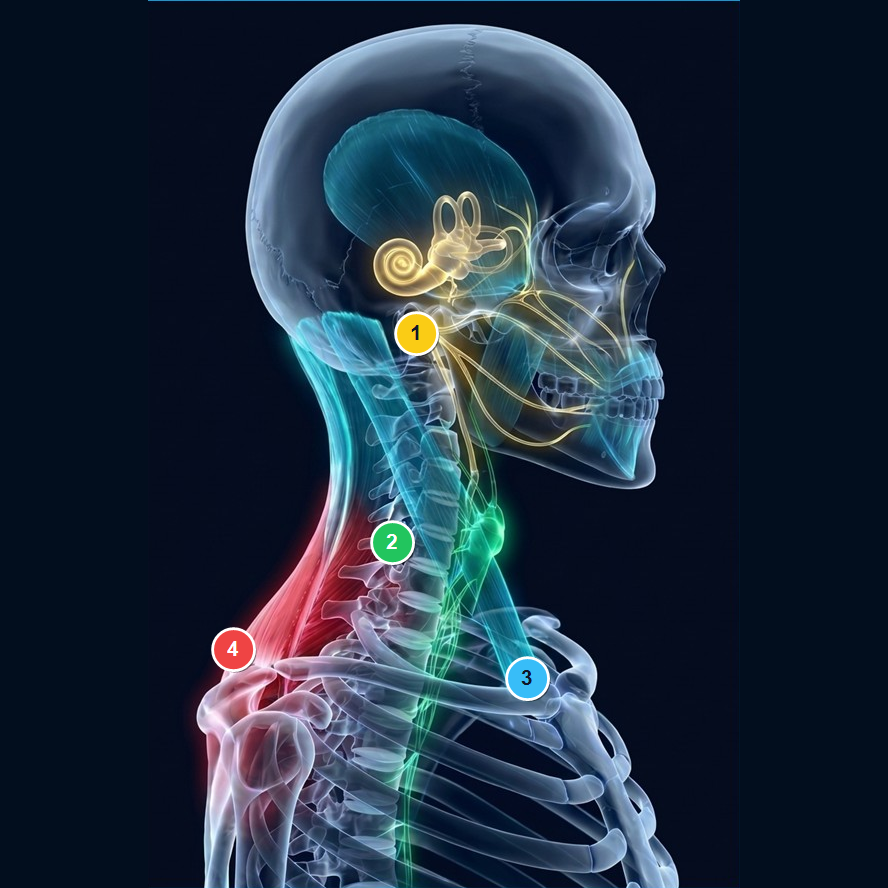
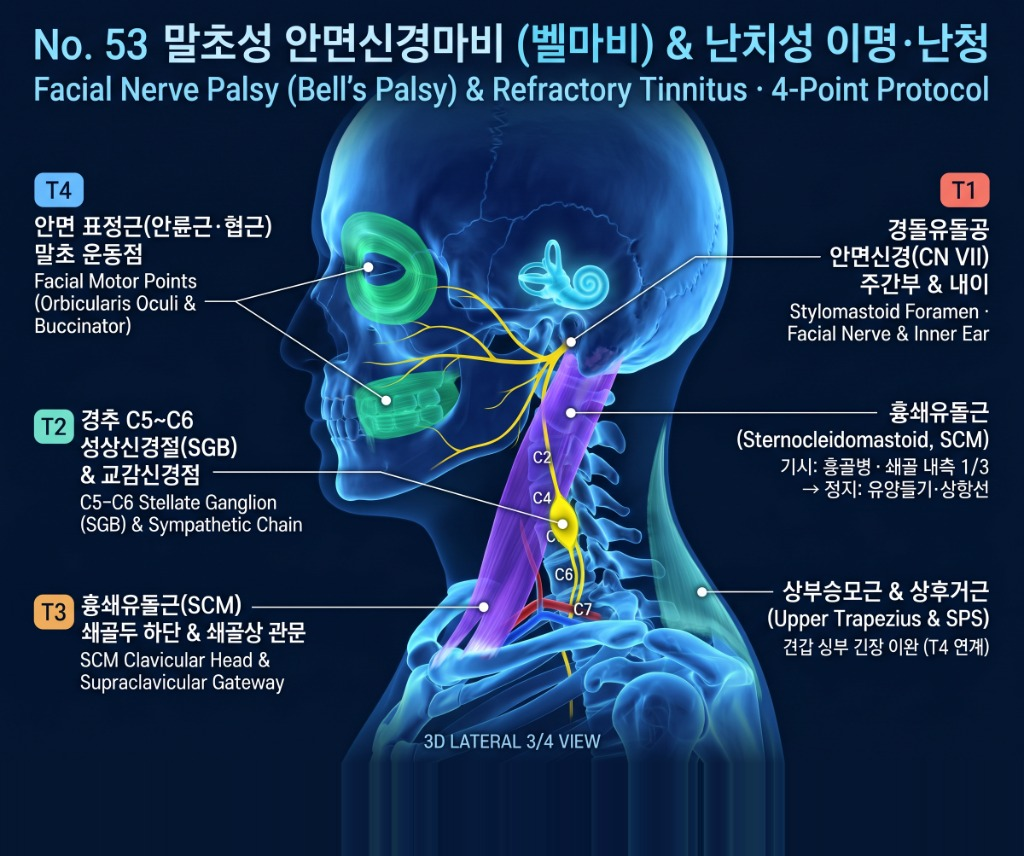
feat(healing-app): upgrade No.53 facial nerve palsy & tinnitus plate and align T1-T4 pins

diff --git a/healing-app/js/pain_data.js b/healing-app/js/pain_data.js
@@ -6590,7 +6590,7 @@ window.PAIN_CONDITIONS = [
     ],
     "title": {
       "ko": "말초성 안면신경마비 후유증 (벨마비) 및 난치성 이명·난청",
-      "en": "Facial Nerve Palsy Sequelae (Bell's Palsy) & Refractory Tinnitus"
+      "en": "Facial Nerve Palsy (Bell's Palsy) & Refractory Tinnitus"
     },
     "symptoms": {
       "ko": "안면 비대칭, 눈 감김 불완전, 입꼬리 처짐 및 연합운동(Synkinesis) 또는 귀 안에서 삐~ 소리가 나는 고음성 이명·먹먹함(이충만감).",
@@ -6601,97 +6601,97 @@ window.PAIN_CONDITIONS = [
       "en": "Edema/ischemia of facial nerve (CN VII) trunk at stylomastoid foramen and cochlear microvascular deficit from cervical sympathetic hyperactivity."
     },
     "targetTissues": {
-      "ko": "경돌유돌공 안면신경 주간부, 성상신경절(C6 SGB), 흉쇄유돌근(SCM) 쇄골지, 상후거근(SPS) 및 안면 표정근 운동점.",
-      "en": "Stylomastoid foramen CN VII trunk, C6 Stellate Ganglion, SCM clavicular head, SPS, and facial motor points."
+      "ko": "경돌유돌공 안면신경(CN VII) 주간부 & 내이(달팽이관), 경추 C5~C6 성상신경절(SGB)·교감신경절, 흉쇄유돌근(SCM · 기시: 흉골병·쇄골 내측 1/3 / 정지: 유양돌기·상항선), 안면 표정근(안륜근·협근) 및 상부승모근·상후거근(SPS).",
+      "en": "Stylomastoid foramen CN VII trunk & inner ear, C5-C6 Stellate Ganglion (SGB) & sympathetic chain, SCM clavicular head & supraclavicular gateway, facial motor points (orbicularis oculi & buccinator), and upper trapezius / SPS."
     },
     "palpation": {
-      "ko": "① 유양돌기 전하방 경돌유돌공 ② C6 성상신경절 및 중부 경추 ③ SCM 쇄골지 하단 ④ 상후거근·승모근 상부 및 협근·안륜근 운동점.",
-      "en": "1) Stylomastoid foramen 2) C6 Stellate Ganglion 3) Lower SCM clavicular head 4) SPS/Upper Trapezius & facial motor branches."
+      "ko": "① 경돌유돌공 안면신경(CN VII) 주간부 & 내이 ② 경추 C5~C6 성상신경절(SGB) & 교감신경점 ③ 흉쇄유돌근(SCM) 쇄골두 하단 & 쇄골상 관문 ④ 안면 표정근(안륜근·협근) 말초 운동점 & 상부승모근·상후거근 연계.",
+      "en": "1) Stylomastoid foramen CN VII & inner ear 2) C5-C6 stellate ganglion (SGB) 3) SCM clavicular head & supraclavicular gateway 4) Facial motor points (orbicularis oculi & buccinator) & upper trapezius / SPS."
     },
     "clinicalCase": {
-      "ko": "벨마비 후유증으로 인한 안면 강직과 고음성 이명이 동반된 환자. 경돌유돌공 안면신경 주간부, C6 성상신경절(SGB), SCM 쇄골지 및 안면 분지에 노바셀(-70mV) 미세전류 통전 후 안면 대칭성 회복 및 이명 강도 80% 이상 감소.",
-      "en": "Bell's palsy sequelae with facial stiffness and tinnitus (Ch.2 Case 3); significant facial symmetry recovery and >80% tinnitus reduction via CN VII + SGB protocol."
+      "ko": "벨마비 후유증으로 인한 안면 강직과 고음성 이명이 동반된 환자. 경돌유돌공 안면신경 주간부, C5~C6 성상신경절(SGB), SCM 쇄골두 하단 및 안면 표정근 운동점에 노바셀(-70mV) 미세전류 통전 후 안면 대칭성 회복 및 이명 강도 80% 이상 감소.",
+      "en": "Bell's palsy sequelae with facial stiffness and high-pitched tinnitus; significant facial symmetry recovery and >80% tinnitus reduction achieved via the 4-point CN VII, SGB, SCM, and facial motor point NovaCell protocol."
     },
     "diagram": "images/diagrams/diagram_53.png",
     "rifeFreq": 528,
     "anatomicalLabels": [
-      "Stylomastoid Foramen (CN VII)",
-      "Cochlea & Vestibulocochlear N. (CN VIII)",
-      "Stellate Ganglion (C6 SGB)",
-      "SCM & Upper Trapezius/SPS"
+      "Stylomastoid Foramen · Facial Nerve (CN VII) & Inner Ear",
+      "C5-C6 Stellate Ganglion (SGB) & Sympathetic Chain",
+      "SCM Clavicular Head & Supraclavicular Gateway",
+      "Facial Motor Points (Orbicularis Oculi & Buccinator) & Upper Trapezius/SPS"
     ],
-    "searchKeywords": "안면마비 구안와사 벨마비 이명 난청 어지럼증 경돌유돌공 성상신경절 SGB",
+    "searchKeywords": "안면신경마비 말초성 안면마비 구안와사 벨마비 이명 난청 어지럼증 연합운동 경돌유돌공 성상신경절 SGB 흉쇄유돌근 SCM 안륜근 협근 상부승모근 상후거근 Facial Nerve Palsy Bell's Palsy Tinnitus Stylomastoid Foramen Stellate Ganglion",
     "targets": [
       {
         "code": "T1",
         "color": "#ff334b",
-        "x": 51.5,
-        "y": 43.0,
+        "x": 55.7,
+        "y": 39.9,
         "role": {
           "ko": "주 신경포착점",
           "en": "Primary Nerve Entrapment"
         },
         "name": {
-          "ko": "T1: 경돌유돌공 안면신경(CN VII) 주간부 및 내이 신경혈관점 (①번 타깃)",
-          "en": "T1: Stylomastoid Foramen Facial Nerve Trunk & Inner Ear Gate (Target 1)"
+          "ko": "T1: 경돌유돌공 안면신경(CN VII) 주간부 & 내이",
+          "en": "T1: Stylomastoid Foramen · Facial Nerve & Inner Ear"
         },
         "desc": {
-          "ko": "[표적 해부] 귓불 뒤 유양돌기 전하방과 하악지 사이의 경돌유돌공 안면신경(CN VII) 출구 및 내이 미소순환 분지(HP-FP-01).\n[촉지 및 시술] 귓불 바로 뒤 오목한 골막 함요처. 안면신경 부종 감압과 달팽이관(이명) 혈류 개선의 제1 관문입니다.",
-          "en": "Stylomastoid foramen exit of facial nerve (CN VII) anterior-inferior to mastoid process."
+          "ko": "[표적 해부] 귓불 뒤 유양돌기 전하방과 하악지 사이의 경돌유돌공 안면신경(CN VII) 출구 및 내이(달팽이관·전정기관) 미소순환 분지(HP-FP-01).\n[촉지 및 시술] 귓불 바로 뒤 오목한 골막 함요처. 안면신경 부종 감압과 달팽이관(이명·난청) 혈류 개선의 제1 핵심 관문입니다.",
+          "en": "Stylomastoid foramen exit of facial nerve (CN VII) anteroinferior to the mastoid process and inner ear microvascular gateway."
         }
       },
       {
         "code": "T2",
         "color": "#00f5d4",
-        "x": 53.5,
-        "y": 58.5,
+        "x": 54.9,
+        "y": 61.2,
         "role": {
           "ko": "자율신경 조절점",
           "en": "Autonomic Control Target"
         },
         "name": {
-          "ko": "T2: 경추 C5-C6 성상신경절(SGB) 후외측 및 경추 교감신경점 (②번 타깃)",
-          "en": "T2: C5-C6 Stellate Ganglion & Cervical Sympathetic Chain (Target 2)"
+          "ko": "T2: 경추 C5~C6 성상신경절(SGB) & 교감신경점",
+          "en": "T2: C5-C6 Stellate Ganglion (SGB) & Sympathetic Chain"
         },
         "desc": {
-          "ko": "[표적 해부] 중하부 경추(C5-C6) 횡돌기 및 성상신경절(Stellate ganglion) 자율신경 반사구역( ②).\n[촉지 및 시술] 안면신경과 내이(달팽이관)로 가는 혈류량을 급격히 증가시켜 신경 재생 속도를 배가시킵니다.",
-          "en": "C5-C6 cervical sympathetic chain and stellate ganglion zone boosting facial/cochlear blood flow."
+          "ko": "[표적 해부] 중하부 경추(C5~C6) 횡돌기 및 성상신경절(Stellate Ganglion) 교감신경 반사구역.\n[촉지 및 시술] 안면신경과 내이(달팽이관)로 가는 미소혈류량을 급격히 증가시켜 마비 신경 재생 속도를 높이고 이명을 진정시킵니다.",
+          "en": "C5-C6 cervical sympathetic chain and stellate ganglion zone boosting facial nerve and cochlear microcirculation."
         }
       },
       {
         "code": "T3",
         "color": "#ff9f43",
-        "x": 56.5,
-        "y": 68.0,
+        "x": 47.2,
+        "y": 70.9,
         "role": {
-          "ko": "신경 주행·분지점",
-          "en": "Nerve Pathway Target"
+          "ko": "신경혈관 관문점",
+          "en": "Neurovascular Gateway Target"
         },
         "name": {
-          "ko": "T3: 흉쇄유돌근(SCM) 쇄골두 하단 및 쇄골상 신경혈관 관문점 (③번 타깃)",
-          "en": "T3: Lower SCM Clavicular Head & Supraclavicular Vascular Gate (Target 3)"
+          "ko": "T3: 흉쇄유돌근(SCM) 쇄골두 하단 & 쇄골상 관문",
+          "en": "T3: SCM Clavicular Head & Supraclavicular Gateway"
         },
         "desc": {
-          "ko": "[표적 해부] 쇄골 내측 상연 SCM 쇄골지 부착부 및 경동맥초·추골동맥 기시부 인접 구역( ③).\n[촉지 및 시술] 두경부에서 내려오는 정맥·림프 울혈을 해소하여 안면부 및 내이 부종을 빼줍니다.",
-          "en": "Inferior clavicular head of SCM opening cephalic venous and lymphatic drainage."
+          "ko": "[표적 해부] 쇄골 내측 1/3 상연 흉쇄유돌근(SCM) 쇄골두 부착부 및 경동맥초·추골동맥 기시부 인접 쇄골상 관문.\n[촉지 및 시술] 두경부에서 내려오는 정맥·림프 울혈을 해소하여 안면부 및 내이 부종을 빠르게 배출시킵니다.",
+          "en": "Inferior clavicular head of SCM opening cephalic venous and lymphatic drainage at the supraclavicular gateway."
         }
       },
       {
         "code": "T4",
         "color": "#38bdf8",
-        "x": 45.0,
-        "y": 56.0,
+        "x": 37.6,
+        "y": 46.7,
         "role": {
-          "ko": "심부 근복·근막점",
-          "en": "Deep Myofascial Trigger Point"
+          "ko": "안면 표정근·운동점",
+          "en": "Facial Motor Point Target"
         },
         "name": {
-          "ko": "T4: 상후거근·상부승모근 및 안면 표정근(협근·안륜근) 말초 운동점 (④번 타깃)",
-          "en": "T4: Upper Trapezius/SPS & Buccinator/Orbicularis Oculi Motor Points (Target 4)"
+          "ko": "T4: 안면 표정근(안륜근·협근) 말초 운동점 (상부승모근·SPS 연계)",
+          "en": "T4: Facial Motor Points (Orbicularis Oculi & Buccinator)"
         },
         "desc": {
-          "ko": "[표적 해부] 견갑 상부 상후거근( ④) 및 입꼬리 외측 협근지점(HP-FP-02)·눈가 안륜근 운동점(HP-FP-03).\n[촉지 및 시술] 마비된 안면 표정근의 수축력을 되살리고 연합운동(구축)을 부드럽게 이완합니다.",
-          "en": "Upper trapezius/SPS point plus buccinator and orbicularis oculi motor terminals."
+          "ko": "[표적 해부] 눈가 안륜근 운동점(HP-FP-03), 입꼬리 외측 협근 운동점(HP-FP-02) 및 연계 견갑 상부 상부승모근·상후거근(SPS).\n[촉지 및 시술] 마비된 안면 표정근의 수축력을 되살리고 연합운동(Synkinesis)·안면 구축을 부드럽게 이완합니다.",
+          "en": "Orbicularis oculi and buccinator facial motor points linked with upper trapezius/SPS relaxation to restore symmetry and ease synkinesis."
         }
       }
     ]
